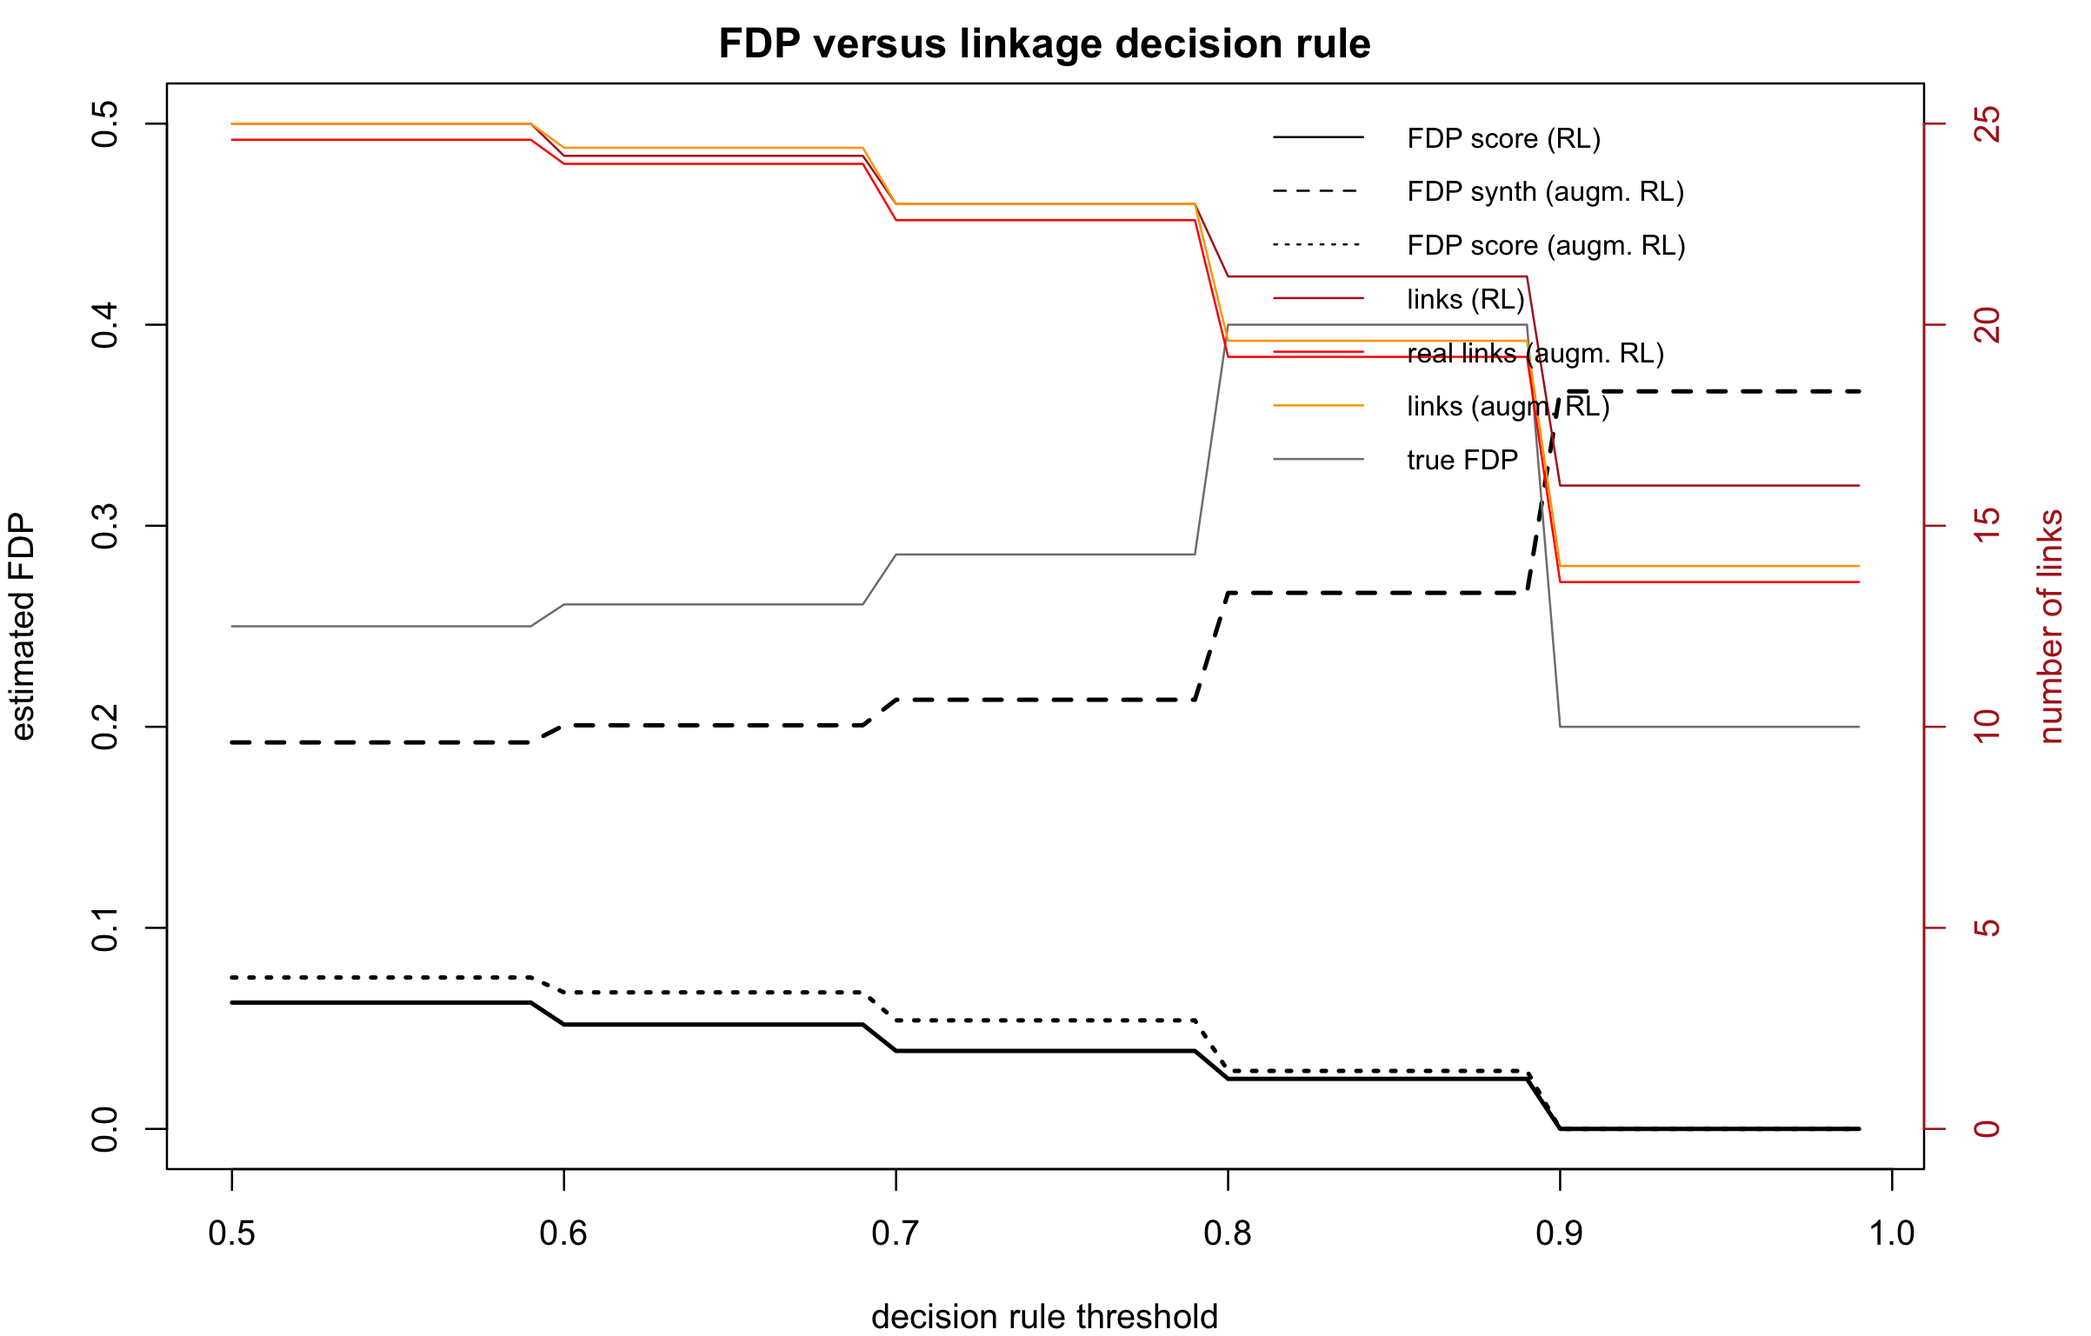
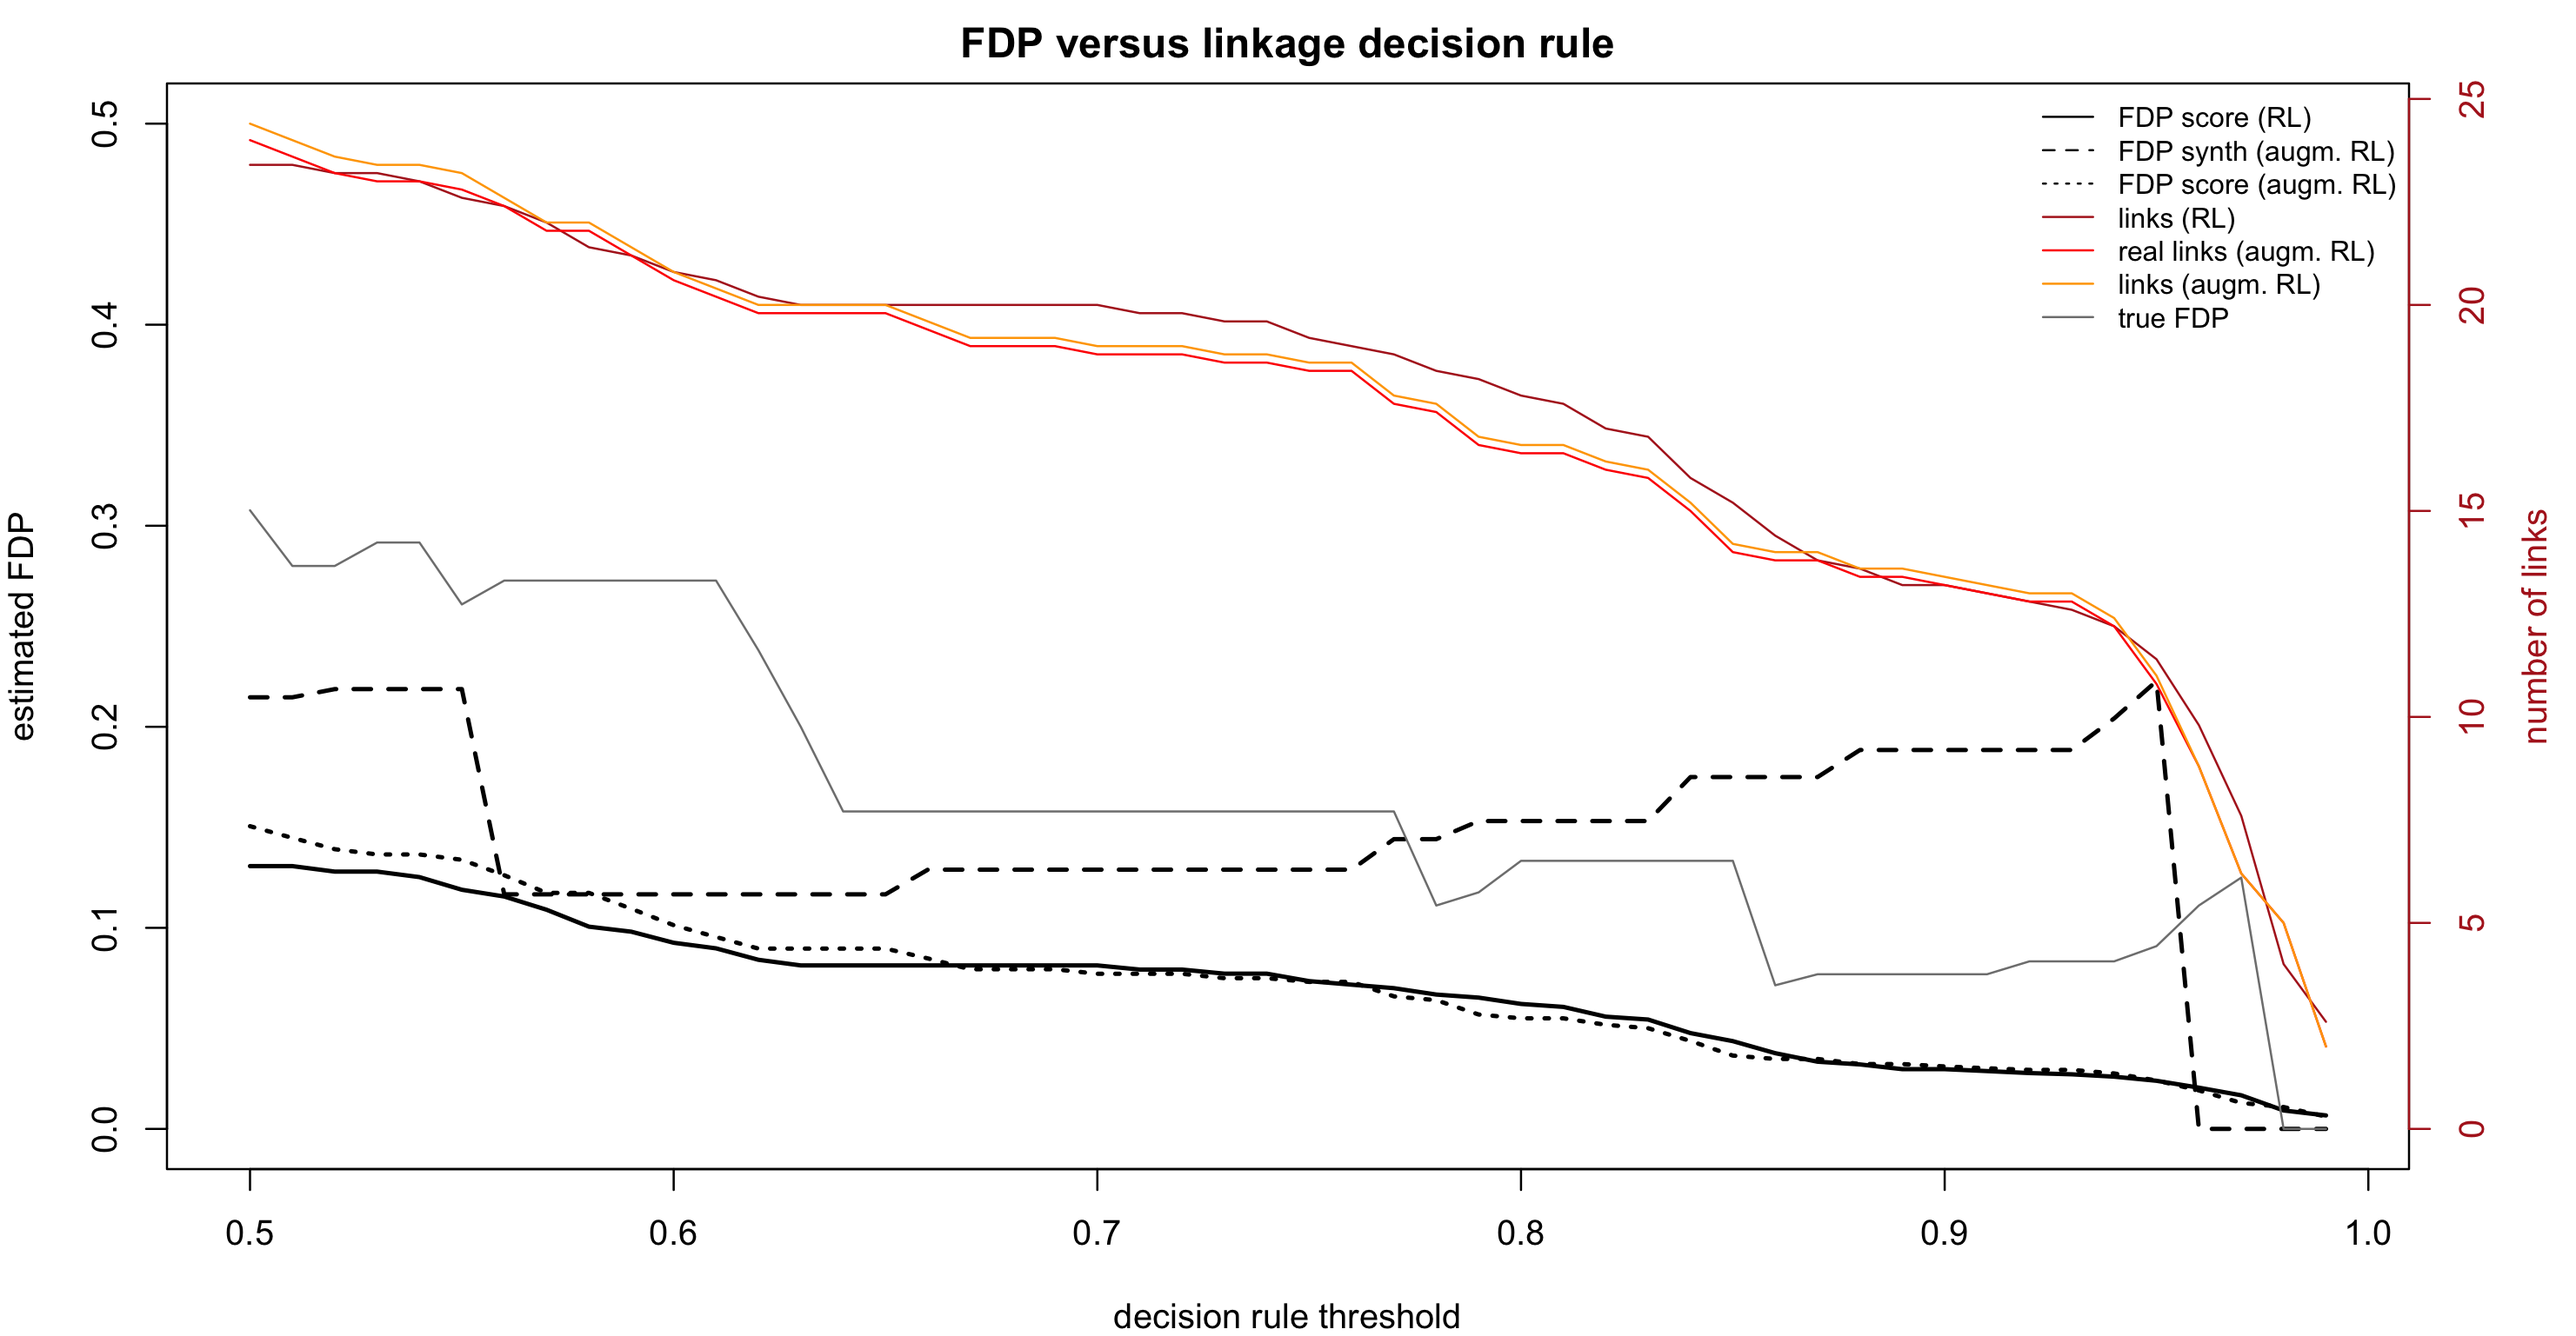
update changes to readme

diff --git a/README.md b/README.md
@@ -8,7 +8,7 @@
 
 **FlexRL** is an open-source R package for **Flexible Record Linkage and inference on linked data**. It links records that refer to the same entity across two data sources sharing no unique identifier but rather partially identifying variables such as birth year, sex, postal code, or product code, brand and category.
 
-It applies wherever two sources are expected to overlap: health monitoring studies at two time points, survey waves, census and administrative records, or customer and product files from two retailers.
+The package applies wherever two sources are expected to overlap: health monitoring studies at two time points, survey waves, census and administrative records, or customer and product files from two retailers. It reach real practice by supporting data access, data sharing without unique identifiers, reusing existing data, offering access to broader sets of variables across wider populations and extended time periods.
 
 Without a unique identifier, probabilistic record linkage makes errors, and these errors propagate into the analysis that follows. FlexRL therefore does two things:
 
@@ -79,7 +79,7 @@ FlexRL relies on Rcpp. When installed from GitHub, it may require gfortran and g
 
 ## 🚀 Quick start
 
-The example below uses the [Bank of Italy Survey on Household Income and Wealth](https://www.bancaditalia.it/statistiche/tematiche/indagini-famiglie-imprese/bilanci-famiglie/distribuzione-microdati/index.html) (SHIW), whose waves can be linked with a known identifier, so that you can check the linkage against the truth. A small extract is shipped with the package vignettes. The number of iterations is kept very small so that it runs in a few seconds; use larger values for real analyses and check the convergence plots.
+The example below uses the [Bank of Italy Survey on Household Income and Wealth](https://www.bancaditalia.it/statistiche/tematiche/indagini-famiglie-imprese/bilanci-famiglie/distribuzione-microdati/index.html) (SHIW), whose waves can be linked with a known identifier, so that you can check the linkage against the truth. A small extract is shipped with the package vignettes. 
 
 ```r
 # Two sources (here: two survey waves)
@@ -112,8 +112,7 @@ sprintf("Linking records on the exact agreement of their PIVs gives a false disc
         fp / (tp + fp), tp / (tp + fn))
 
 # Fit the model
-fit <- StEM(data = prep_data, StEM_iter = 10, StEM_burnin = 5,
-            gibbs_iter = 10, gibbs_burnin = 5, n_post_samp = 10)
+fit <- StEM(data = prep_data)
 
 # Linked pairs: row of A (i), row of B (j), linkage score (x).
 #    A score above 0.5 guarantees one-to-one assignment.
@@ -124,8 +123,6 @@ diag <- RL_diagnostics(fit, prep_data$encodedA, prep_data$encodedB, PIVs,
                        list(ANASCI = TRUE, SESSO = FALSE, STACIV = FALSE, STUDIO = FALSE),
                        true_pairs = prep_data$true_pairs, FDP_estimation = TRUE,
                        RL_method = "FlexRL", data = prep_data,
-                       StEM_iter = 10, StEM_burnin = 5,
-                       gibbs_iter = 10, gibbs_burnin = 5, n_post_samp = 10,
                        maxIter4CV = 3, n_repeats = 5)
 
 print(diag, threshold = 0.75)                  # summary at one specific decision rule
@@ -137,8 +134,12 @@ plot(diag, "convergence")                      # StEM chains
 ```
 
 <img src="man/figures/diag-FDP.png" align="right" height="139" alt="FlexRL FDP diagnostic" />
-<img src="man/figures/diag-discr.png" align="right" height="139" alt="FlexRL discrepancy diagnostic" />
-<!-- TODO: add files in man/figures/ for display -->
+<img src="man/figures/diag-discr-mmd.png" align="right" height="139" alt="FlexRL mmd diagnostic" />
+<img src="man/figures/diag-discr-smd.png" align="right" height="139" alt="FlexRL smd diagnostic" />
+<img src="man/figures/diag-discr-iou.png" align="right" height="139" alt="FlexRL iou diagnostic" />
+<img src="man/figures/diag-discr-agreerate.png" align="right" height="139" alt="FlexRL agreementrate diagnostic" />
+<img src="man/figures/diag-gamma.png" align="right" height="139" alt="FlexRL gamma convergence" />
+<img src="man/figures/diag-scores.png" align="right" height="139" alt="FlexRL scores" />
 
 ### Compare record linkage methodologies
 
